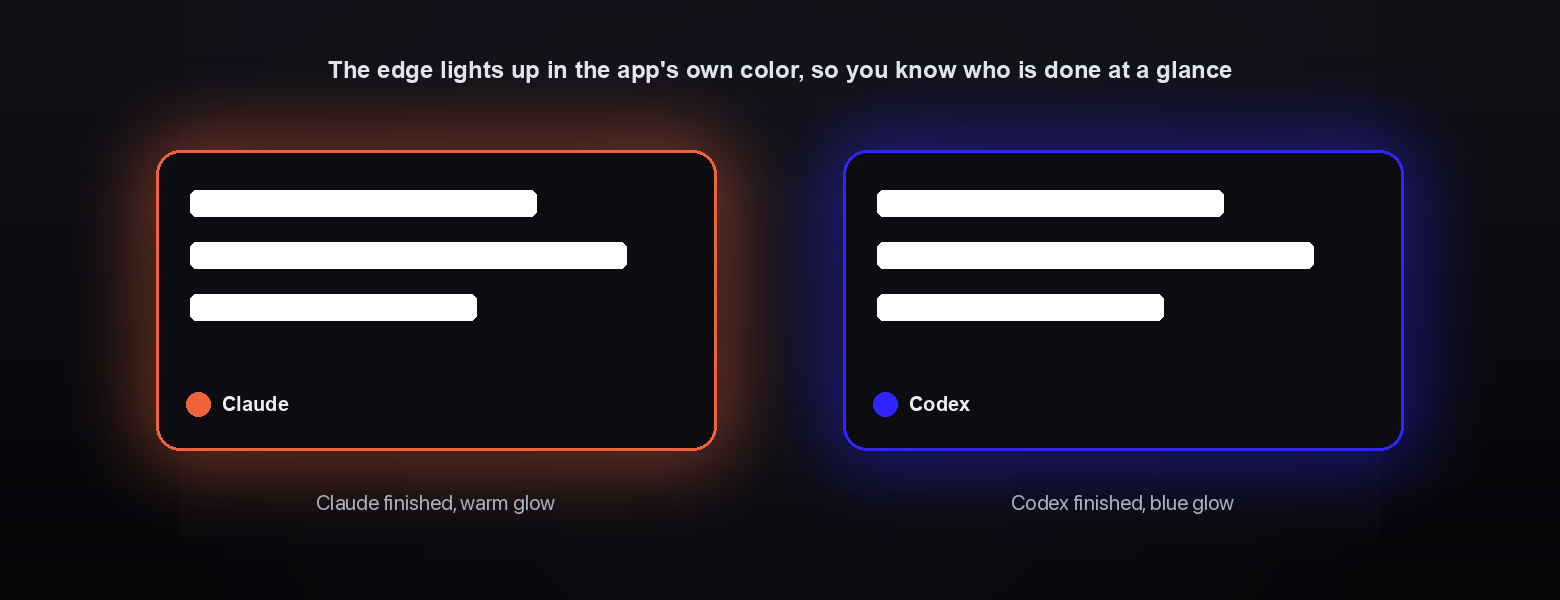
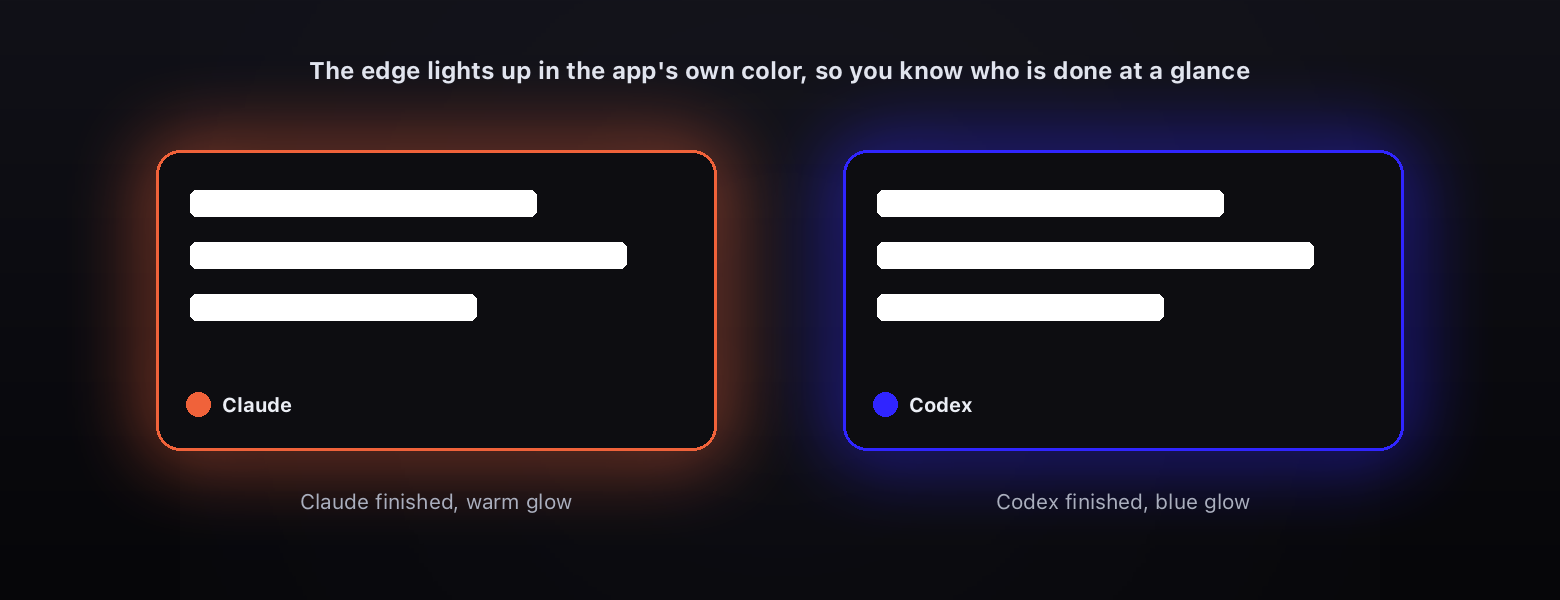
design(readme): larger SF Pro Display hero type, higher-contrast pills
Render the hero title and tagline in SF Pro Display at larger sizes, bump
the body copy, and taller canvas so it breathes. Rework the feature chips
to dark glass with a strong colored ring and pure-white labels so they are
legible instead of faint. Glow-demo captions pick up SF Pro too.

diff --git a/scripts/gen-readme-images.py b/scripts/gen-readme-images.py
@@ -20,19 +20,28 @@ BLUE = (79, 123, 255)
 VIOLET = (139, 92, 246)
 
 
-def font(size, bold=False):
-    tries = (
-        [("/System/Library/Fonts/Supplemental/Arial Bold.ttf", 0),
-         ("/System/Library/Fonts/Helvetica.ttc", 1)]
-        if bold else
-        [("/System/Library/Fonts/SFNS.ttf", 0),
-         ("/System/Library/Fonts/Helvetica.ttc", 0),
-         ("/System/Library/Fonts/Supplemental/Arial.ttf", 0)]
-    )
-    for path, idx in tries:
+def font(size, bold=False, weight=None, display=False):
+    """Prefer SF Pro Display (headings) / SF Pro Text (body) at a given weight.
+
+    `bold=True` is kept for older callers and maps to the Bold weight. Pass an
+    explicit `weight` (e.g. "Semibold", "Heavy") and `display=True` for the
+    large display cut used on the hero title and tagline.
+    """
+    if weight is None:
+        weight = "Bold" if bold else "Regular"
+    fam = "Display" if display else "Text"
+    tries = [
+        f"/Library/Fonts/SF-Pro-{fam}-{weight}.otf",
+        f"/Library/Fonts/SF-Pro-Text-{weight}.otf",
+        f"/Library/Fonts/SF-Pro-Display-{weight}.otf",
+        "/System/Library/Fonts/SFNS.ttf",
+        "/System/Library/Fonts/Supplemental/Arial Bold.ttf" if bold
+        else "/System/Library/Fonts/Supplemental/Arial.ttf",
+    ]
+    for path in tries:
         if os.path.exists(path):
             try:
-                return ImageFont.truetype(path, size, index=idx)
+                return ImageFont.truetype(path, size)
             except Exception:
                 continue
     return ImageFont.load_default()
@@ -96,62 +105,70 @@ def wrap(draw, text, fnt, max_w):
 
 def pill(draw, xy, text, fnt, dot=None):
     x, y = xy
-    pad_x, h = 15, 34
+    pad_x, h = 24, 50
     tw = draw.textlength(text, font=fnt)
-    extra = 22 if dot else 0
+    extra = 32 if dot else 0
     w = int(tw + pad_x * 2 + extra)
-    draw.rounded_rectangle([x, y, x + w, y + h], radius=h // 2, fill=(255, 255, 255, 16),
-                           outline=(255, 255, 255, 30), width=1)
+    # dark glass fill + a strong colored ring, so bright white text pops clearly
+    ring = (dot + (220,)) if dot else (255, 255, 255, 110)
+    draw.rounded_rectangle([x, y, x + w, y + h], radius=h // 2,
+                           fill=(16, 18, 26, 165), outline=ring, width=2)
     tx = x + pad_x
     if dot:
         cy = y + h // 2
-        draw.ellipse([tx, cy - 4, tx + 8, cy + 4], fill=dot)
+        r = 7
+        draw.ellipse([tx, cy - r, tx + 2 * r, cy + r], fill=dot)
         tx += extra
-    draw.text((tx, y + h / 2), text, font=fnt, fill=(220, 224, 235, 255), anchor="lm")
+    draw.text((tx, y + h / 2), text, font=fnt, fill=(255, 255, 255, 255), anchor="lm")
     return w
 
 
 # ---------------------------------------------------------------- hero
 def build_hero():
-    W, H = 1680, 620
+    W, H = 1680, 700
     img = vgrad((W, H), (20, 20, 29), (7, 7, 11)).convert("RGBA")
-    glow(img, (300, 150), 900, BLUE, 46)
-    glow(img, (830, 640), 1000, VIOLET, 30)
-    glow(img, (1520, 90), 640, CLAUDE, 26)
+    glow(img, (300, 170), 960, BLUE, 46)
+    glow(img, (840, 720), 1040, VIOLET, 30)
+    glow(img, (1520, 100), 660, CLAUDE, 26)
 
     draw = ImageDraw.Draw(img)
 
-    icon = Image.open(ICON).convert("RGBA").resize((188, 188), Image.LANCZOS)
-    ishadow = Image.new("RGBA", img.size, (0, 0, 0, 0))
+    isize = 210
+    ix, iy = 100, 150
     sh = Image.new("L", img.size, 0)
-    ImageDraw.Draw(sh).rounded_rectangle([96, 118, 96 + 188, 118 + 188], radius=42, fill=150)
+    ImageDraw.Draw(sh).rounded_rectangle([ix, iy, ix + isize, iy + isize], radius=46, fill=150)
     sh = sh.filter(ImageFilter.GaussianBlur(34))
     blk = Image.new("RGBA", img.size, (0, 0, 0, 255)); blk.putalpha(sh)
     img.alpha_composite(blk)
-    img.alpha_composite(icon, (96, 118))
+    icon = Image.open(ICON).convert("RGBA").resize((isize, isize), Image.LANCZOS)
+    img.alpha_composite(icon, (ix, iy))
 
-    x = 322
-    draw.text((x, 144), "Chime 4 Breakfast", font=font(64, bold=True), fill=(255, 255, 255))
-    draw.text((x, 228), "No need to keep watching AI think.", font=font(30), fill=(196, 201, 214))
+    x = 350
+    draw.text((x, 168), "Chime 4 Breakfast",
+              font=font(90, weight="Bold", display=True), fill=(255, 255, 255))
+    draw.text((x, 282), "No need to keep watching AI think.",
+              font=font(42, weight="Semibold", display=True), fill=(214, 218, 230))
+
+    body_font = font(26, weight="Regular", display=True)
     for i, line in enumerate(wrap(draw,
             "Move on to another task. C4B notifies you the moment Codex or Claude "
             "Desktop needs you or finishes a reply. A sound, plus a screen-edge glow "
             "when you have stepped away.",
-            font(21), 650)):
-        draw.text((x, 288 + i * 30), line, font=font(21), fill=(146, 151, 166))
+            body_font, 780)):
+        draw.text((x, 356 + i * 38), line, font=body_font, fill=(170, 175, 190))
 
     px = x
-    py = 430
-    fp = font(15, bold=True)
-    px += pill(draw, (px, py), "100% local", fp, dot=(61, 185, 120)) + 10
-    px += pill(draw, (px, py), "Screen glow", fp, dot=BLUE) + 10
+    py = 500
+    fp = font(21, weight="Semibold")
+    px += pill(draw, (px, py), "100% local", fp, dot=(61, 185, 120)) + 14
+    px += pill(draw, (px, py), "Screen glow", fp, dot=BLUE) + 14
     pill(draw, (px, py), "Codex & Claude", fp, dot=CLAUDE)
 
     if os.path.exists(POPOVER):
         pop = Image.open(POPOVER).convert("RGBA")
-        scale = 520 / pop.height
-        pop = pop.resize((int(pop.width * scale), 520), Image.LANCZOS)
-        card = framed(pop, radius=34, blur=40, offset=(0, 20), pad=70)
+        scale = 560 / pop.height
+        pop = pop.resize((int(pop.width * scale), 560), Image.LANCZOS)
+        card = framed(pop, radius=34, blur=40, offset=(0, 20), pad=68)
         img.alpha_composite(card, (W - card.width - 60, (H - card.height) // 2))
 
     img.convert("RGB").save(os.path.join(ASSETS, "hero.png"))